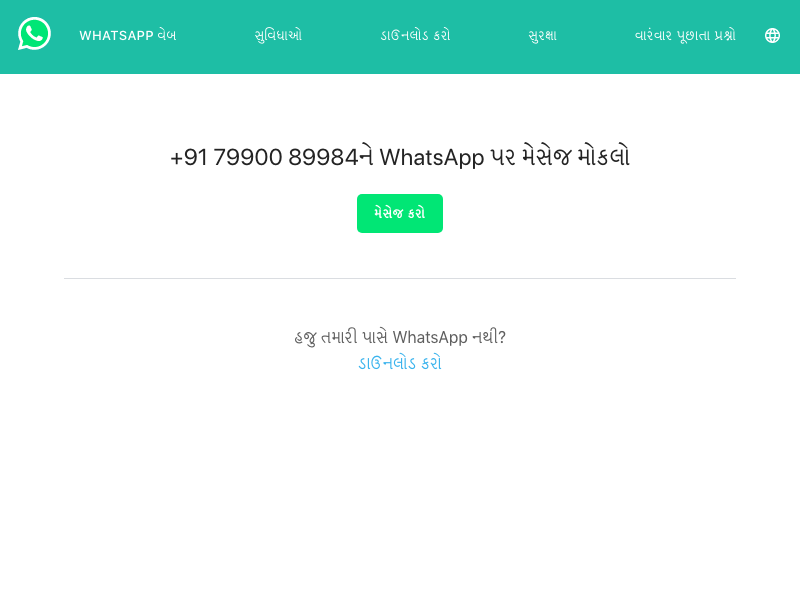
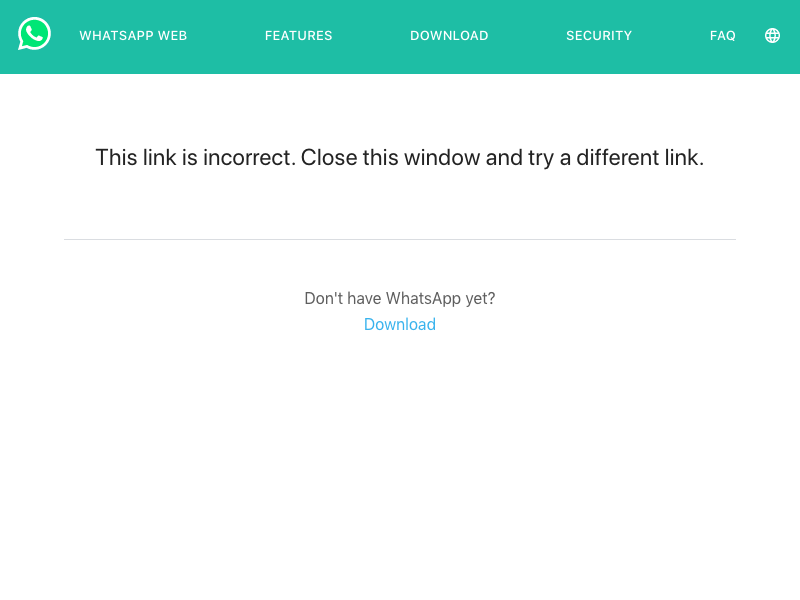
Whatsapp

diff --git a/whatsapp.js b/whatsapp.js
@@ -26,33 +26,33 @@ const { Cluster } = require('puppeteer-cluster');
 
     await mongoose.connect('mongodb://foodioadmin:11999966@15.206.164.241:27017/Foodio', { promiseLibrary: global.Promise, useNewUrlParser: true });
 
-    // const query = [{
-    //     $match: {
-    //         bIsDetailFetched: true,
-    //         bIsWhatsappTried: {
-    //             $ne: true
-    //         },
-    //         groupBy: await fetchGroupby()
-    //     }
-    // }, {
-    //     $limit: 1
-    // }];
+    const query = [{
+        $match: {
+            bIsDetailFetched: true,
+            bIsWhatsappTried: {
+                $ne: true
+            },
+            groupBy: await fetchGroupby()
+        }
+    }, {
+        $limit: 1
+    }];
 
-    // const restaurents = await mongo.fetchRestaurantsAggregateCursor(query);
+    const restaurents = await mongo.fetchRestaurantsAggregateCursor(query);
 
-    // restaurents.eachAsync(async (doc) => {
-    //     try {
-    //         doc.phone_number_arr.map((number) => {
-    //             if (!number.startsWith('+91')) return;
-    //             const phNumber = number.replace('+91 ', '');
-    //             cluster.queue({url: `https://wa.me/091${phNumber.replace(' ', '')}`, ID: doc._id, phNumber: phNumber.replace(' ', '')});
-    //         })
-    //     } catch(error) {
-    //         console.log(error);
-    //     }
-    // });
+    restaurents.eachAsync(async (doc) => {
+        try {
+            doc.phone_number_arr.map((number) => {
+                if (!number.startsWith('+91')) return;
+                const phNumber = number.replace('+91 ', '');
+                cluster.queue({url: `https://wa.me/091${phNumber.replace(' ', '')}`, ID: doc._id, phNumber: phNumber.replace(' ', '')});
+            })
+        } catch(error) {
+            console.log(error);
+        }
+    });
 
-    cluster.queue({url: `https://wa.me/0917990089984`, ID: 12345, phNumber: 0917990089984}); //091877025791
+    // cluster.queue({url: `https://wa.me/091877025791`, ID: 12345, phNumber: 091877025791}); //091877025791
 
     setInterval(async () => {
         await cluster.idle();
@@ -64,6 +64,10 @@ async function retrieveWhatsapp(url, id, phNumber, page) {
     console.log(phNumber, id);
     return new Promise(async (res, rej) => {
         try {
+            await page.setExtraHTTPHeaders({
+                'Accept-Language': 'en-US'
+            });
+
             const response = await page.goto(url, { waitUntil: "domcontentloaded" });
             if (response._status !== 200) rej();
 
@@ -78,21 +82,21 @@ async function retrieveWhatsapp(url, id, phNumber, page) {
 
             console.log(result);
 
-            // if (result) {
-            //     await mongo.updateRestaurant({_id: id}, {bIsWhatsappTried: true, $push: {
-            //         whatsappNumbers: phNumber,
-            //         scanned: phNumber
-            //     }});
-            // } else {
-            //     await mongo.updateRestaurant({_id: id}, {bIsWhatsappTried: true, $push: {
-            //         scanned: phNumber
-            //     }});
-            // }
+            if (result) {
+                await mongo.updateRestaurant({_id: id}, {bIsWhatsappTried: true, $push: {
+                    whatsappNumbers: phNumber,
+                    scanned: phNumber
+                }});
+            } else {
+                await mongo.updateRestaurant({_id: id}, {bIsWhatsappTried: true, $push: {
+                    scanned: phNumber
+                }});
+            }
             res();
         } catch(error) {
-            // await mongo.updateRestaurant({_id: id}, {bIsWhatsappTried: true, $push: {
-            //     scanned: phNumber
-            // }});
+            await mongo.updateRestaurant({_id: id}, {bIsWhatsappTried: true, $push: {
+                scanned: phNumber
+            }});
             rej(error);
         }
     });
